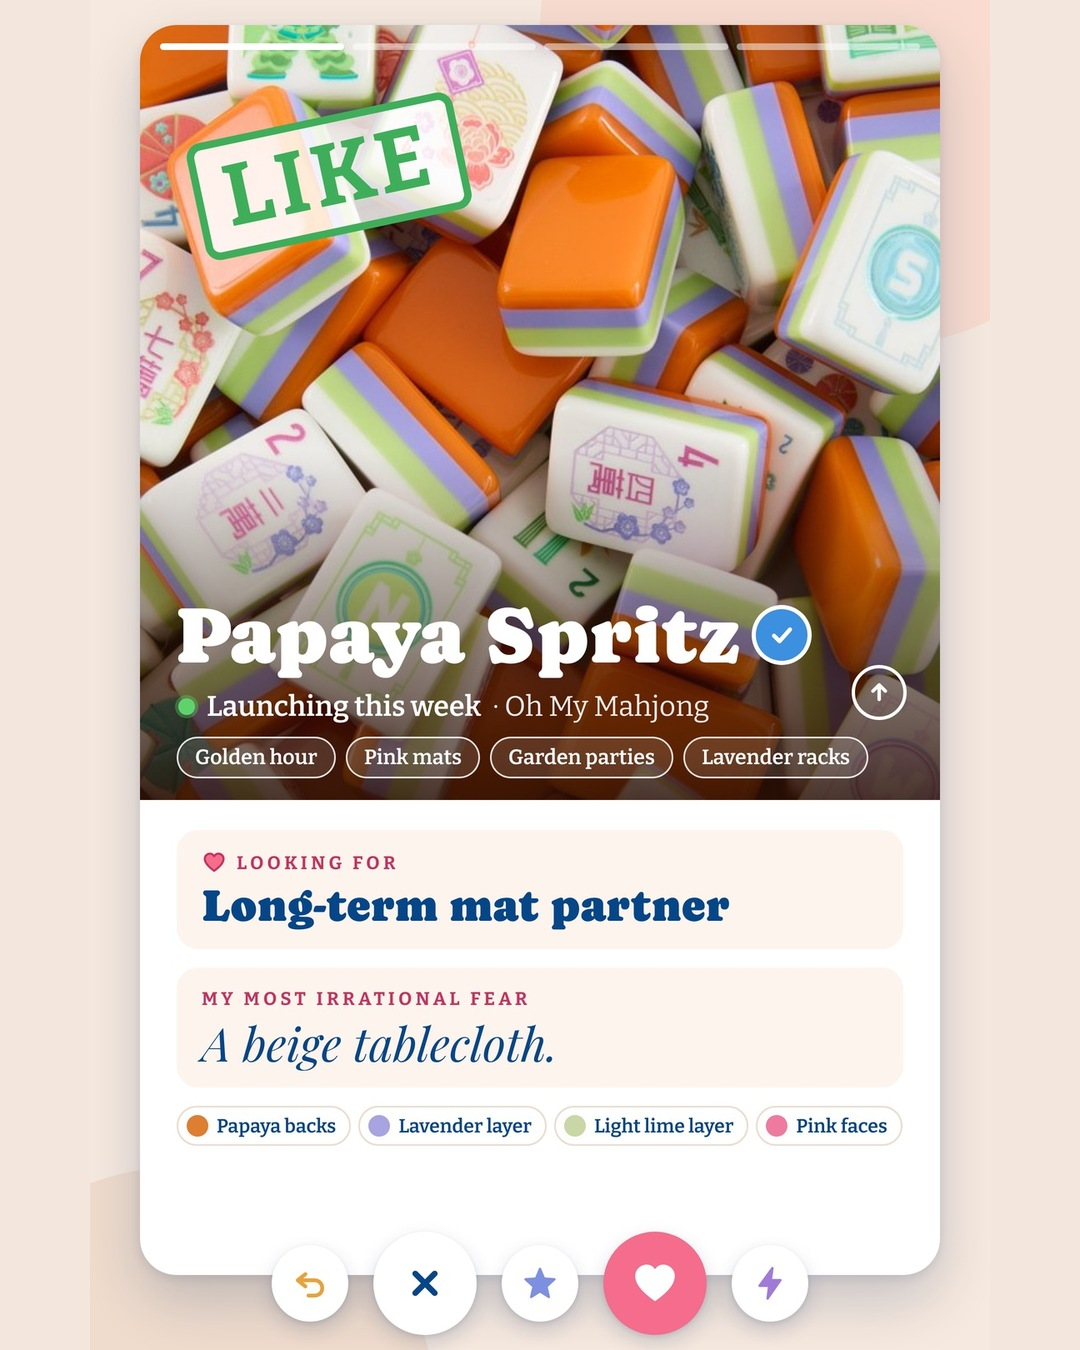
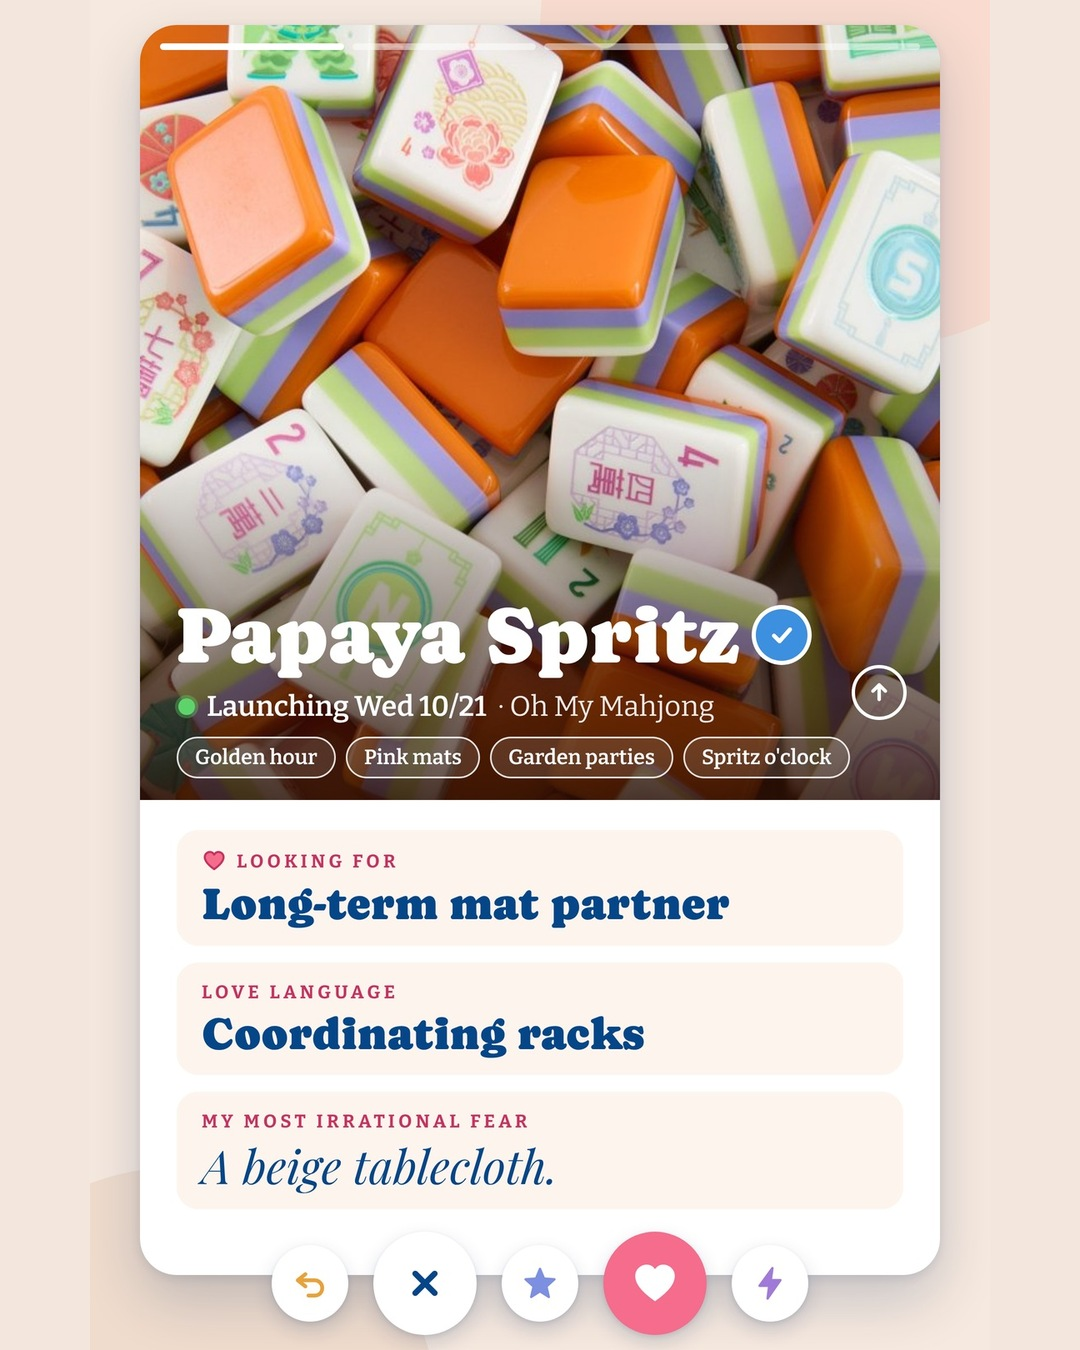
Dating profile version D is the standard (no LIKE stamp, love language prompt, no color row); Papaya intro slide 1 + story updated
Claude-Session: https://claude.ai/code/session_014aKoC1ZMdZPjGkZ9kHhnLk

diff --git a/scripts/social/tileprofile/swipe_profile.py b/scripts/social/tileprofile/swipe_profile.py
@@ -1,4 +1,5 @@
-"""Tile Set Profile, version C: dating-app profile (Oct 19).
+"""Tile Set Profile, version D = THE STANDARD (Tiffany approved Oct 19, 11:19pm): no LIKE stamp, launch day line, 3 prompts (looking for / love language / irrational fear), no color row.
+Based on version C: dating-app profile (Oct 19).
 Tiffany asked for a version built from the swipe-app trademarks: photo dashes, LIKE stamp, name + verified check,
 green active dot, interest pills, "Looking for", a prompt, basics row and the 5-button row.
 Usage: python3 scripts/social/tileprofile/swipe_profile.py   (writes assets/colorcards/papaya-spritz/00-papaya-spritz-mahjong-tiles-profile-c-story.jpg)
@@ -11,13 +12,14 @@ from playwright.async_api import async_playwright
 R = '/home/claude/mahjmatchmaker-data'
 F = f'file://{R}/scripts/social/tileprofile/fonts'
 u = lambda p: f'file://{R}/{p}'
-OUT = f'{R}/assets/colorcards/papaya-spritz/00-papaya-spritz-mahjong-tiles-profile-c-story.jpg'
+OUT = f'{R}/assets/colorcards/papaya-spritz/00-papaya-spritz-mahjong-tiles-profile-d-story.jpg'
 TMP = os.path.dirname(os.path.abspath(__file__)) + '/html'
 os.makedirs(TMP, exist_ok=True)
 
 P = dict(name='Papaya Spritz', brand='Oh My Mahjong', photo='assets/tiles/album/papaya-spritz.jpg',
-         active='Launching this week', looking='Long-term mat partner',
-         pills=['Golden hour', 'Pink mats', 'Garden parties', 'Lavender racks'],
+         active='Launching Wed 10/21', looking='Long-term mat partner',
+         pills=['Golden hour', 'Pink mats', 'Garden parties', "Spritz o'clock"],
+         love='Coordinating racks',
          prompt_q='My most irrational fear', prompt_a='A beige tablecloth.',
          basics=[('#de7e30', 'Papaya backs'), ('#a8a3e1', 'Lavender layer'), ('#c8d7a5', 'Light lime layer'), ('#ef7aa0', 'Pink faces')],
          matches=50)
@@ -67,7 +69,7 @@ html,body{{width:1080px;height:1920px;overflow:hidden;background:var(--cream);co
 .stamp{{position:absolute;left:64px;top:110px;transform:rotate(-12deg);border:9px solid #3fae5a;color:#3fae5a;font:700 104px Bit;letter-spacing:.06em;
   padding:0 26px;border-radius:18px;background:rgba(255,255,255,.80)}}
 .body{{position:absolute;left:44px;right:44px;top:966px}}
-.box{{background:#fdf4ee;border-radius:26px;padding:24px 30px;margin-bottom:22px}}
+.box{{background:#fdf4ee;border-radius:26px;padding:22px 30px;margin-bottom:20px}}
 .q{{font:700 22px Bit;letter-spacing:.2em;text-transform:uppercase;color:var(--rose);margin-bottom:8px;display:flex;align-items:center;gap:12px}}
 .a{{font-family:Capra;font-size:54px;line-height:1.05;color:var(--navy)}}
 .pa{{font-family:PF;font-style:italic;font-size:56px;line-height:1.1;color:var(--navy)}}
@@ -84,7 +86,6 @@ html,body{{width:1080px;height:1920px;overflow:hidden;background:var(--cream);co
 <div class="card">
  <div class="photo">
  <div class="bars"><i></i><i></i><i></i><i></i></div>
- <div class="stamp">LIKE</div>
  <div class="shade"></div>
  <div class="name">{P['name']}<span class="check">{svg('M13 25 L21 33 L36 16', '#fff', 40, 6)}</span></div>
  <div class="meta"><span class="g"></span>{P['active']} <span class="b">· {P['brand']}</span></div>
@@ -93,8 +94,8 @@ html,body{{width:1080px;height:1920px;overflow:hidden;background:var(--cream);co
  </div>
  <div class="body">
   <div class="box"><div class="q">{svg(HEART, '#c8325f', 30, 4, '#f56c8c')} Looking for</div><div class="a">{P['looking']}</div></div>
+  <div class="box"><div class="q">Love language</div><div class="a">{P['love']}</div></div>
   <div class="box"><div class="q">{P['prompt_q']}</div><div class="pa">{P['prompt_a']}</div></div>
-  <div class="basics">{basics}</div>
  </div>
 </div>
 <div class="btns">
@@ -111,10 +112,11 @@ async def main():
     async with async_playwright() as p:
         b = await p.chromium.launch()
         pg = await b.new_page(viewport={'width': 1080, 'height': 1920}, device_scale_factor=2)
-        hp = f'{TMP}/profile-c.html'; open(hp, 'w').write(HTML)
+        hp = f'{TMP}/profile-d.html'; open(hp, 'w').write(HTML)
         await pg.goto('file://' + hp); await pg.wait_for_load_state('networkidle'); await pg.evaluate('document.fonts.ready')
-        png = f'{TMP}/profile-c@2x.png'; await pg.screenshot(path=png); await b.close()
-    Image.open(png).convert('RGB').resize((1080, 1920), Image.LANCZOS).save(OUT, quality=93, optimize=True)
+        png = f'{TMP}/profile-d@2x.png'; await pg.screenshot(path=png); await b.close()
+    im = Image.open(png).convert('RGB').resize((1080, 1920), Image.LANCZOS); im.save(OUT, quality=93, optimize=True)
+    im.save(OUT.replace('profile-d-story', 'profile-c-story'), quality=93, optimize=True)  # same file under the old name other scripts use
 
 if __name__ == '__main__':
     asyncio.run(main()); print(OUT)

diff --git a/scripts/social/tileprofile/intro.py b/scripts/social/tileprofile/intro.py
@@ -15,7 +15,7 @@ subprocess.run(['python3', R + 'scripts/social/tileprofile/carousel.py', key, H]
 nodots = lambda s: re.sub(r'<div class="dots">.*?</div>', '', s, flags=re.S)
 
 # slide 1: dating profile story cropped to 4:5 on cream
-st = Image.open(R + f'assets/colorcards/{key}/00-{key}-mahjong-tiles-profile-c-story.jpg').convert('RGB')
+st = Image.open(R + f'assets/colorcards/{key}/00-{key}-mahjong-tiles-profile-d-story.jpg').convert('RGB')
 crop = st.crop((0, 140, 1080, 1760)); h = 1350; w = round(1080 * h / crop.height)
 cv = Image.new('RGB', (1080, 1350), st.getpixel((10, 1000))); cv.paste(crop.resize((w, h), Image.LANCZOS), ((1080 - w) // 2, 0))
 cv.save(f'{OUT}/1.jpg', quality=93)
